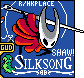
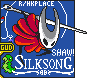
Reverting Silksong template

diff --git a/silksong.user.js b/silksong.user.js
@@ -1,7 +1,7 @@
 // ==UserScript==
 // @name         Silksong Place
 // @namespace    https://www.reddit.com/r/HollowKnight/
-// @version      0.7.2
+// @version      0.7.3
 // @description  try to take over r/place!
 // @author       OnyX_#4977
 // @match        https://hot-potato.reddit.com/embed*
@@ -23,7 +23,7 @@ function makeOverlay(id, url, width, height, x, y) {
 
 if (window.top !== window.self) {
     window.addEventListener('load', () => {
-        makeOverlay("Silksong",     "https://github.com/onyx-4977/onyx-4977/raw/main/SilksongTemplate.png",     84, 78, 225, 343);
+        makeOverlay("Silksong",     "https://github.com/onyx-4977/onyx-4977/raw/main/SilksongTemplate.png",     87, 78, 225, 343);
         makeOverlay("HollowKnight", "https://github.com/onyx-4977/onyx-4977/raw/main/HollowKnightTemplate.png", 124, 71, 1297, 49);
         makeOverlay("Radiance",     "https://github.com/onyx-4977/onyx-4977/raw/main/RadianceTemplate.png",     96, 106, 246,1339);
 
